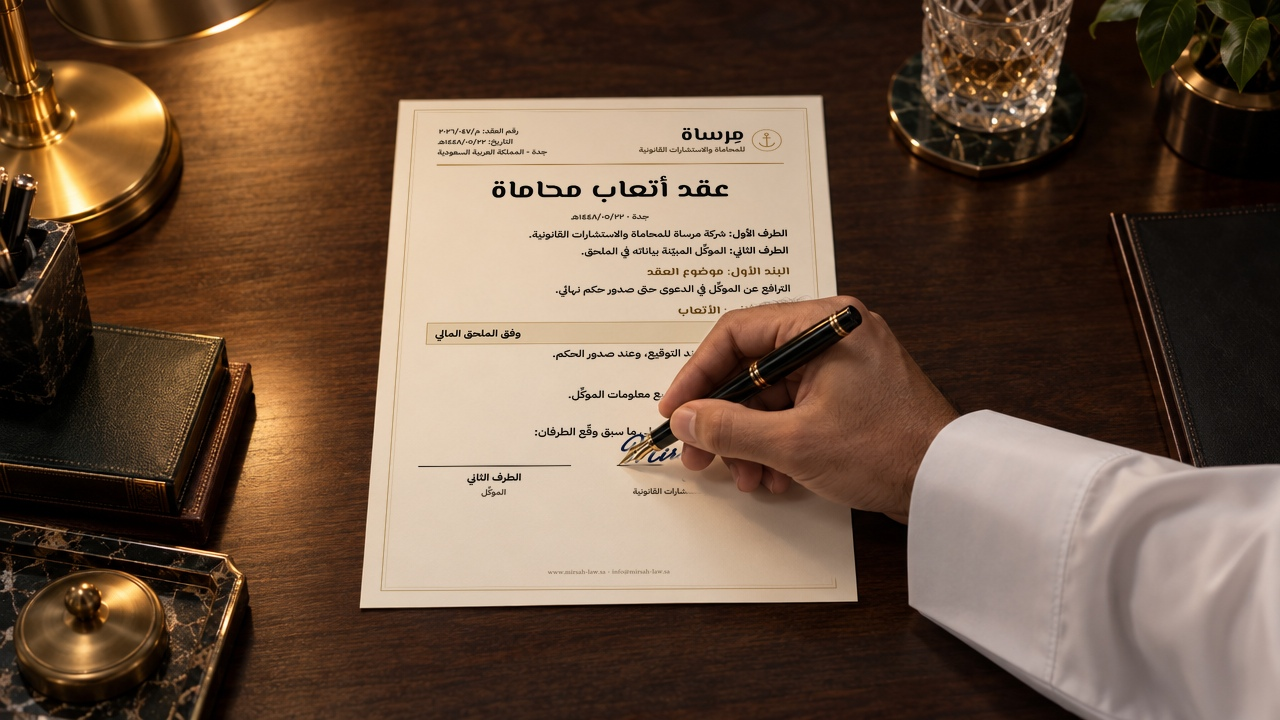
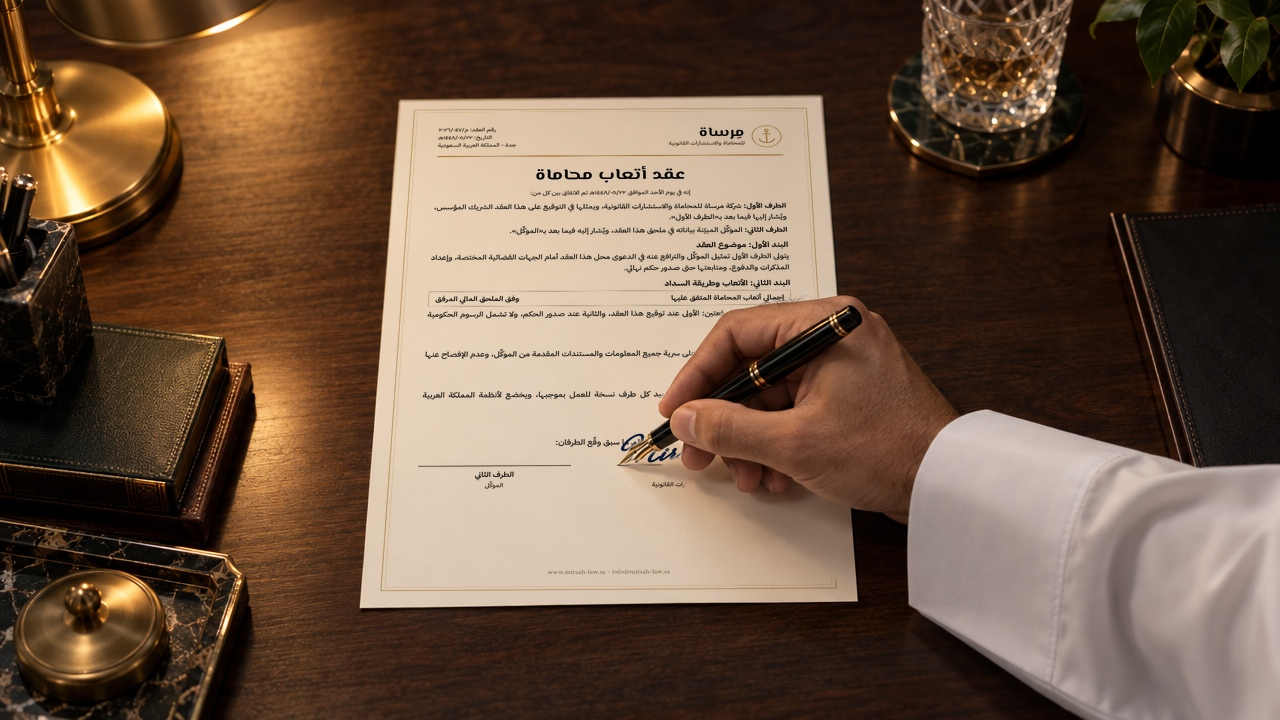
Use realistic text size on the Kling contract start frame
Claude-Session: https://claude.ai/code/session_01Ga1p9oGE8DCELHe8fN9sZk

Changed region(s): [[0.3125, 0.1528, 0.625, 0.6417], [0.3438, 0.6417, 0.4062, 0.7028], [0.5, 0.6722, 0.5312, 0.7028]]

diff --git a/lawyer-jeddah/fee-contract.html b/lawyer-jeddah/fee-contract.html
@@ -8,19 +8,19 @@ html,body{margin:0}
 .page::after{content:"";position:absolute;inset:54px;border:1px solid #E3D4B0}
 .hd{display:flex;justify-content:space-between;align-items:center;border-bottom:3px solid #B8924A;padding-bottom:26px}
 .logo{display:flex;align-items:center;gap:18px}
-.logo b{font-family:"El Messiri";font-weight:700;font-size:70px;line-height:1;color:#14161A}
-.logo small{display:block;font-family:"IBM Plex Sans Arabic";font-weight:600;font-size:26px;color:#5E4E30}
-.no{font-family:"IBM Plex Sans Arabic";font-weight:600;font-size:26px;color:#3E372C;text-align:left;line-height:1.6}
-h1{font-family:"El Messiri";font-weight:700;font-size:92px;text-align:center;margin:30px 0 4px;color:#0E0F12}
-.sub{text-align:center;font-family:"IBM Plex Sans Arabic";font-weight:600;font-size:28px;color:#3E372C;margin-bottom:18px}
-.p{font-family:"IBM Plex Sans Arabic";font-weight:600;font-size:33px;line-height:1.6;margin:0 0 10px;color:#1A1712}
-.cl{font-family:"El Messiri";font-weight:700;font-size:38px;color:#7A5A1E;margin:22px 0 4px}
-.fee{display:flex;justify-content:space-between;border:2px solid #C9AE76;background:#F1E8D4;padding:12px 22px;font-family:"IBM Plex Sans Arabic";font-weight:700;font-size:32px;margin:6px 0 8px;color:#1A1712}
+.logo b{font-family:"El Messiri";font-weight:700;font-size:50px;line-height:1;color:#14161A}
+.logo small{display:block;font-family:"IBM Plex Sans Arabic";font-weight:500;font-size:19px;color:#5E4E30}
+.no{font-family:"IBM Plex Sans Arabic";font-weight:500;font-size:19px;color:#3E372C;text-align:left;line-height:1.6}
+h1{font-family:"El Messiri";font-weight:700;font-size:58px;text-align:center;margin:30px 0 4px;color:#0E0F12}
+.sub{text-align:center;font-family:"IBM Plex Sans Arabic";font-weight:500;font-size:20px;color:#3E372C;margin-bottom:18px}
+.p{font-family:"IBM Plex Sans Arabic";font-weight:500;font-size:24px;line-height:1.7;margin:0 0 8px;color:#22201B;text-align:justify}
+.cl{font-family:"IBM Plex Sans Arabic";font-weight:700;font-size:26px;color:#22201B;margin:16px 0 2px}
+.fee{display:flex;justify-content:space-between;border:1.5px solid #9A9080;background:transparent;padding:8px 18px;font-family:"IBM Plex Sans Arabic";font-weight:600;font-size:23px;margin:6px 0 8px;color:#1A1712}
 .sigs{position:absolute;inset:0;pointer-events:none}
 .sig.first{position:absolute;left:640px;width:480px;top:1324px}
 .sig.second{position:absolute;left:120px;width:400px;top:1324px}
-.sig{border-top:3px solid #3E372C;padding-top:12px;text-align:center;font-family:"IBM Plex Sans Arabic";font-weight:700;font-size:30px;color:#1A1712;position:relative}
-.sig .name{font-size:24px;font-weight:600;color:#4E4434}
+.sig{border-top:2px solid #3E372C;padding-top:10px;text-align:center;font-family:"IBM Plex Sans Arabic";font-weight:600;font-size:22px;color:#1A1712;position:relative}
+.sig .name{font-size:18px;font-weight:600;color:#4E4434}
 .ink{position:absolute;left:14px;right:0;top:-104px;text-align:left;font-family:"Mrs Saint Delafield",cursive;font-size:122px;line-height:1;color:#152A5C;transform:rotate(-4deg)}
 .foot{position:absolute;left:120px;right:120px;bottom:80px;text-align:center;font-size:19px;color:#9A8B6E}
 body.nosig .ink{display:none}
@@ -34,17 +34,19 @@ body.nosig .ink{display:none}
     <div class="no">رقم العقد: م/٢٠٢٦/٠٤٧<br>التاريخ: ١٤٤٨/٠٥/٢٢هـ<br>جدة - المملكة العربية السعودية</div>
   </div>
   <h1>عقد أتعاب محاماة</h1>
-  <div class="sub">جدة · ١٤٤٨/٠٥/٢٢هـ</div>
-  <p class="p"><b>الطرف الأول:</b> شركة مرساة للمحاماة والاستشارات القانونية.</p>
-  <p class="p"><b>الطرف الثاني:</b> الموكِّل المبيّنة بياناته في الملحق.</p>
+  <div class="sub">إنه في يوم الأحد الموافق ١٤٤٨/٠٥/٢٢هـ تم الاتفاق بين كل من:</div>
+  <p class="p"><b>الطرف الأول:</b> شركة مرساة للمحاماة والاستشارات القانونية، ويمثلها في التوقيع على هذا العقد الشريك المؤسس، ويُشار إليها فيما بعد بـ«الطرف الأول».</p>
+  <p class="p"><b>الطرف الثاني:</b> الموكِّل المبيّنة بياناته في ملحق هذا العقد، ويُشار إليه فيما بعد بـ«الموكِّل».</p>
   <div class="cl">البند الأول: موضوع العقد</div>
-  <p class="p">الترافع عن الموكِّل في الدعوى حتى صدور حكم نهائي.</p>
-  <div class="cl">البند الثاني: الأتعاب</div>
-  <div class="fee"><span>أتعاب المحاماة</span><span>وفق الملحق المالي</span></div>
-  <p class="p">تُسدد على دفعتين: عند التوقيع، وعند صدور الحكم.</p>
+  <p class="p">يتولى الطرف الأول تمثيل الموكِّل والترافع عنه في الدعوى محل هذا العقد أمام الجهات القضائية المختصة، وإعداد المذكرات والدفوع، ومتابعتها حتى صدور حكم نهائي.</p>
+  <div class="cl">البند الثاني: الأتعاب وطريقة السداد</div>
+  <div class="fee"><span>إجمالي أتعاب المحاماة المتفق عليها</span><span>وفق الملحق المالي المرفق</span></div>
+  <p class="p">تُسدد الأتعاب على دفعتين: الأولى عند توقيع هذا العقد، والثانية عند صدور الحكم، ولا تشمل الرسوم الحكومية ومصاريف الخبراء.</p>
   <div class="cl">البند الثالث: السرية</div>
-  <p class="p">يلتزم الطرف الأول بسرية جميع معلومات الموكِّل.</p>
-  <p class="p" style="position:absolute;left:120px;right:120px;top:1190px;text-align:center;color:#1A1712">وبناءً على ما سبق وقّع الطرفان:</p>
+  <p class="p">يلتزم الطرف الأول بالمحافظة على سرية جميع المعلومات والمستندات المقدمة من الموكِّل، وعدم الإفصاح عنها للغير.</p>
+  <div class="cl">البند الرابع: أحكام عامة</div>
+  <p class="p">حُرر هذا العقد من نسختين أصليتين بيد كل طرف نسخة للعمل بموجبها، ويخضع لأنظمة المملكة العربية السعودية.</p>
+  <p class="p" style="position:absolute;left:120px;right:120px;top:1230px;text-align:center;color:#22201B">وبناءً على ما سبق وقّع الطرفان:</p>
   <div class="sigs">
     <div class="sig second">الطرف الثاني<br><span class="name">الموكِّل</span></div>
     <div class="sig first"><div class="ink">Mirsah</div>الطرف الأول<br><span class="name">شركة مرساة للمحاماة والاستشارات القانونية</span></div>
